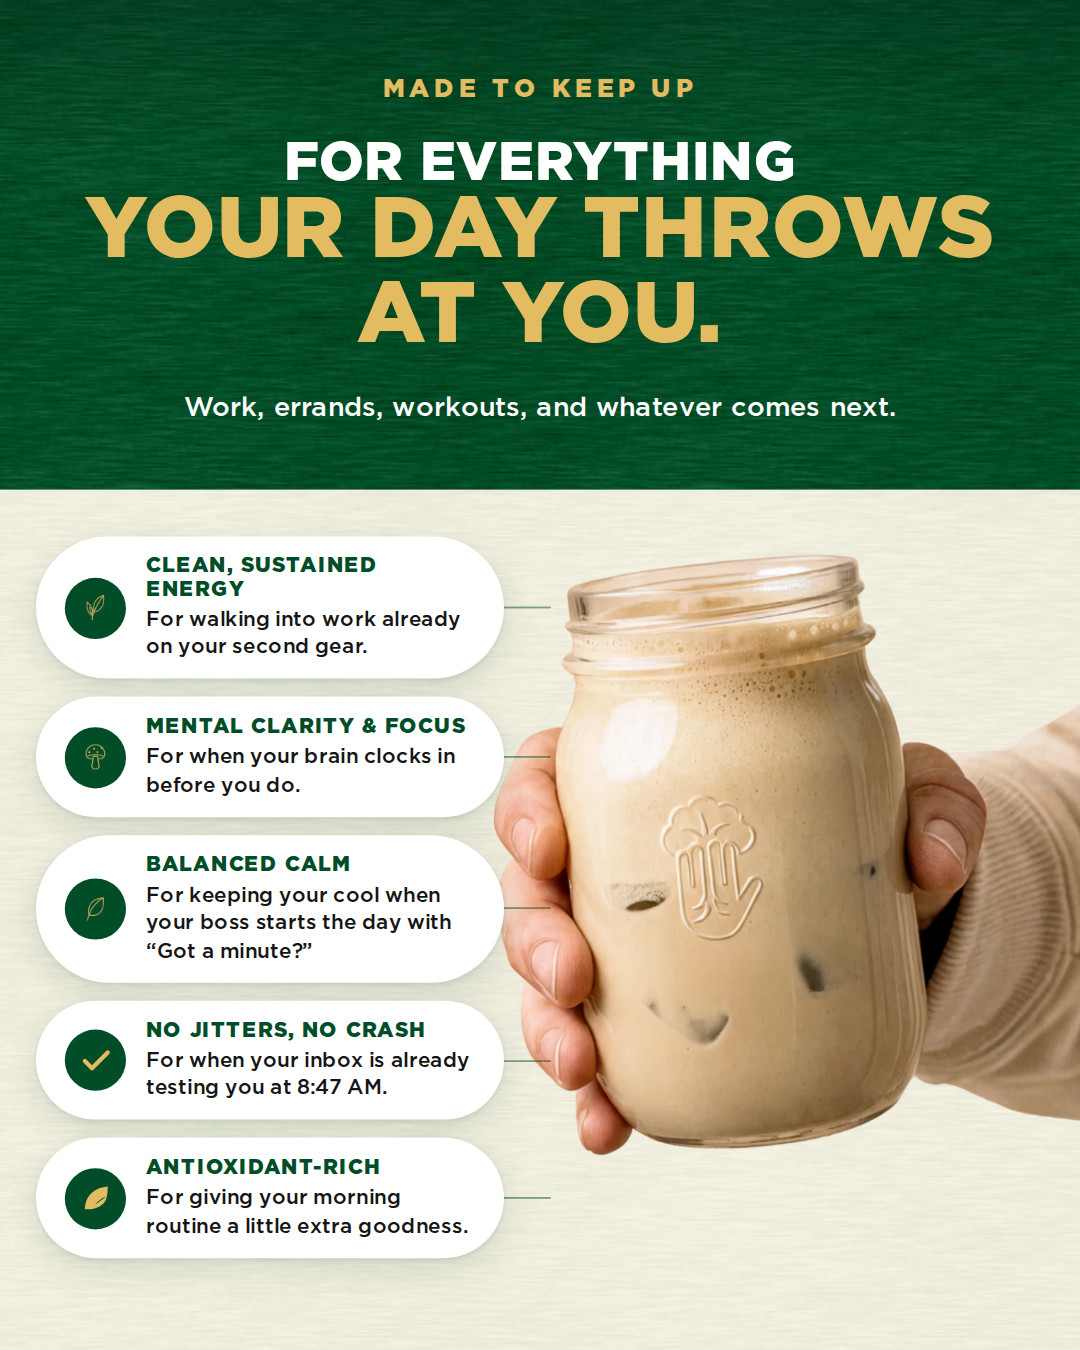
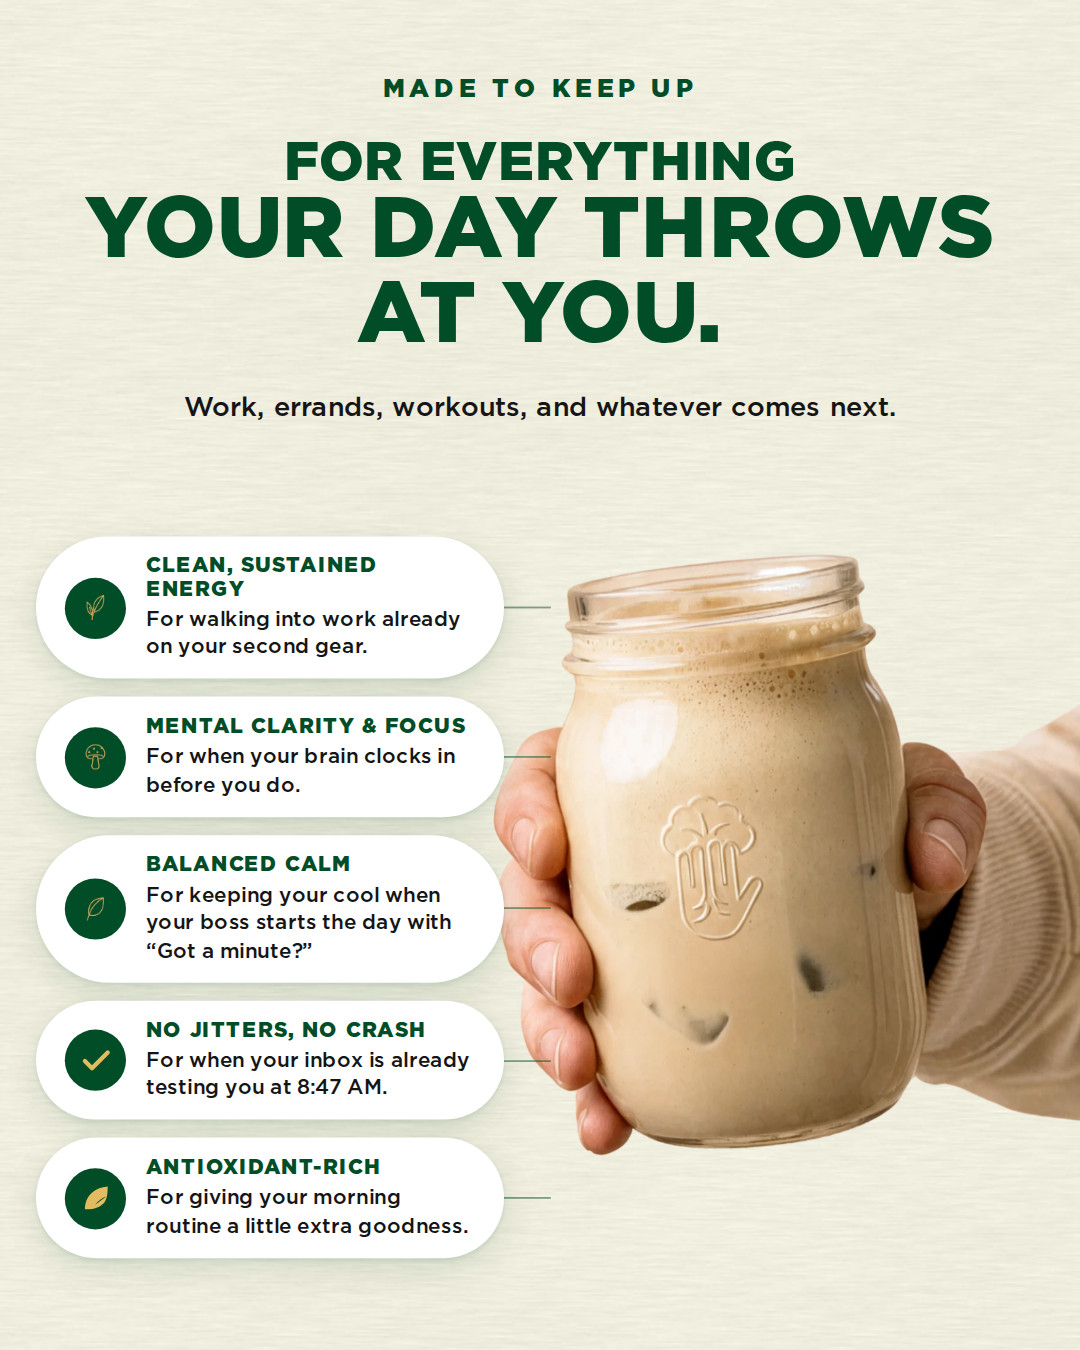
social: post two is one beige, and the ink follows it
The dark band at the head is gone; the whole frame is the same textured beige
as the rest of the post.

THE INK HAD TO MOVE WITH THE GROUND. The band existed so the title could run
cream over gold, and on beige neither colour is legal — gold measures 1.56:1
here and cream about 1.1:1 — so the headline is the one dark green this
ground allows, with the paragraph near-black.

The two-line split survives by changing instrument rather than disappearing.
Where the dark band set the payoff apart by COLOUR, it is set apart by SLANT
here: the house two-line headline exactly as documented, where the contrast is
weight and slant rather than colour, precisely so it holds on a ground that
rules the colour out. Nothing else moved — same size, same diagram, same
cards, same jar.

Claude-Session: https://claude.ai/code/session_01NhEtXPnfeCJfN73SqBkUZ5

diff --git a/email-ds/emails/carousel/set-the-tone-posts.jsx b/email-ds/emails/carousel/set-the-tone-posts.jsx
@@ -51,10 +51,10 @@ function SetTheTonePosts() {
     // gold headline at twice that size — so the section is redrawn here with
     // the pieces under control.
     //
-    // A DARK BAND TAKES THE HEAD, which is what makes post two match post one:
-    // the same cream over gold, on the same kind of ground. It is the paper
-    // grain recoloured to forest, the same tile the recipe email uses, so the
-    // band reads as this system rather than as a coloured rectangle.
+    // ONE GROUND, ALL BEIGE. The head carried a dark band for a while so the
+    // title could run cream over gold; on one beige neither colour is legal,
+    // so the headline is one dark green and the second line is set apart by
+    // slant instead.
     //
     // THE CARDS GAVE WIDTH TO THE PICTURE. At 260 rather than the email's 330
     // they still hold a label and a two-line note, and the 70 they release
@@ -64,18 +64,23 @@ function SetTheTonePosts() {
     // between two objects, not a decoration of it.
     S({ bg: 'beige', textured: true, align: 'top', padX: 0, padY: 0 },
 
-      h('div', { style: {
-        backgroundColor: '#004D27',
-        backgroundImage: 'linear-gradient(180deg, rgba(0,26,13,0.3) 0%, rgba(0,26,13,0) 90px), url(../public/brand/textures/tile-paper-forest.jpg)',
-        backgroundSize: 'auto, 320px 320px',
-        backgroundRepeat: 'no-repeat, repeat',
-        padding: '42px 30px 34px', textAlign: 'center' } },
-        h(M.SlideEyebrow, { text: 'Made to keep up', align: 'center' }),
+      // ONE BEIGE, AND THE INK FOLLOWS IT. The head of this post was a dark
+      // band carrying cream over gold; on beige neither is available — gold
+      // measures 1.56:1 here and cream is 1.1:1 — so the whole headline is
+      // the one dark green the ground allows.
+      //
+      // The two-line split survives by changing instrument. Where the dark
+      // band set the payoff apart by COLOUR, here it is set apart by SLANT,
+      // which is the house two-line headline exactly as documented: the
+      // contrast is weight and slant rather than colour, precisely so it
+      // holds on a ground that rules the colour out.
+      h('div', { style: { padding: '42px 30px 34px', textAlign: 'center' } },
+        h(M.SlideEyebrow, { text: 'Made to keep up', color: FOREST, align: 'center' }),
         h(M.SlideTitle, { line1: 'For everything', line2: 'your day throws\nat you.',
           size: 30, size2: 48, lead: 0.98, align: 'center',
-          color: '#FFFFFF', color2: GOLD }),
+          color: FOREST, color2: FOREST }),
         h(M.SlideBody, { text: 'Work, errands, workouts, and whatever comes next.',
-          size: 15, color: '#FFFFFF', align: 'center', measure: 400, top: 16 }),
+          size: 15, color: '#151515', align: 'center', measure: 400, top: 16 }),
       ),
 
       // The diagram, pushed to the top of what is left rather than centred in
